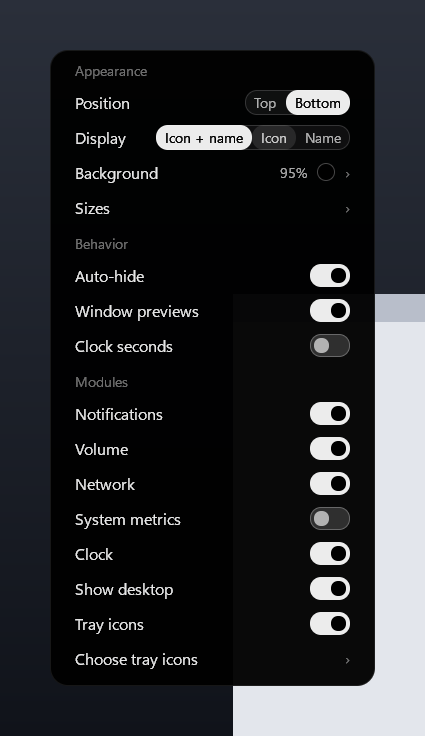
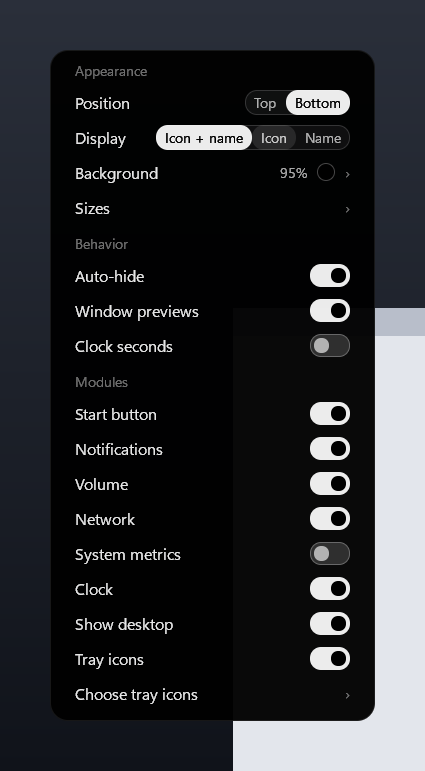
README: refresh stale screenshots, describe the fork
popup_audio.png dated from the initial release (before the audio device icons); popup_settings.png and popup_windows.png were rendered on a base without the Start button. All three are re-rendered with `dock.exe --preview` from this branch, so every screenshot now matches the merged code. The README also says what this fork contains, clones the fork, and credits Desox for PRs #1 and #2.

diff --git a/README.md b/README.md
@@ -2,6 +2,8 @@
 
 A minimal, ultra-light, OLED-black floating dock for Windows 11, written in Rust with raw Win32 and no UI framework.
 
+> **About this fork.** The `mini-oled-dock-plus` branch is [gitgiovik/mini-oled-dock](https://github.com/gitgiovik/mini-oled-dock) with its open pull requests #1-#4 merged: Start button and quick-links menu (#1) and window previews (#2) by Desox, the multi-monitor screen choice (#3) and the AppBar position fix with clearer logs (#4). It is not an official release.
+
 ![The bar](docs/screenshots/bar_top_icon_text.png)
 
 It replaces the native taskbar with a small centred pill that hides when you do not need it. Backgrounds are pure black (OLED pixels switch off), only program names are shown in the bar (window titles appear only in the previews that open when you hover an app with several windows), tray icons of other apps are hosted in the bar, and the popups are drawn by hand. The executable is about 0.7 MB and uses roughly 10 MB of RAM (working set trimmed to under 1 MB while hidden); numbers from the author's machine.
@@ -51,7 +53,7 @@ It replaces the native taskbar with a small centred pill that hides when you do 
 Requires Windows 11 and a stable Rust toolchain (1.87+, MSVC target).
 
 ```powershell
-git clone https://github.com/gitgiovik/mini-oled-dock
+git clone https://github.com/Ragnatela666/mini-oled-dock
 cd mini-oled-dock
 cargo build --release
 .\target\release\dock.exe
@@ -179,5 +181,7 @@ To render the screenshots, build with `DOCK_NO_MANIFEST=1` (a non-elevated manif
 ## Credits and license
 
 A few Windows shell protocol structures in `src/tray_host.rs` are adapted from [lightbar](https://github.com/SauerExe/lightbar) (MIT); see [THIRD_PARTY_NOTICES.md](THIRD_PARTY_NOTICES.md). Other shell projects were studied for protocol knowledge only; no AGPL code was copied.
+
+The Start button, quick-links menu and window previews are by Desox (PRs #1 and #2 upstream).
 
 [MIT](LICENSE) &copy; 2026 gitgiovik
